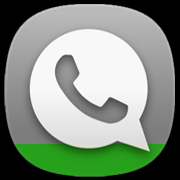
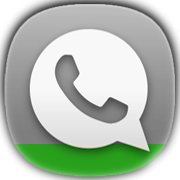
Splash page improvements

Changed region(s): [[0.0, 0.0, 1.0, 1.0]]

diff --git a/src/client/UI/Misc/WASplash.qml b/src/client/UI/Misc/WASplash.qml
@@ -20,9 +20,10 @@ WAPage {
     }
     
     function nextStage() {
-	curProgress=0
-	position=0
+	curProgress=1
 	stage++
+	position=1
+	console.log("nextStage: " + stage)
     }
 
     function setSubOperation(subop) {
@@ -34,15 +35,22 @@ WAPage {
     }
     
     function step() {
-	if (position+1 < maximumValue) {
+	if (position+1 <= maximumValue) {
 	    position++
 	    setProgress(position)
+	    setOpacity(position)
 	}
     }
 
     function setProgress(val) {
 	    var part = 100/maximumValue
 	    curProgress = parseInt(part*val /10)
+	    console.log("setProgress: " + curProgress)
+    }
+
+    function setOpacity(val) {
+	    var part = myBackgroundOpacity/maximumValue/10.0
+	    background.opacity = part*val
     }
 
     onStatusChanged: {
@@ -58,7 +66,15 @@ WAPage {
     Rectangle {
 	id: name
 	anchors.fill: parent
-	color: "black"
+	color: theme.inverted?"black":"white"
+	
+	Image {
+	    id: background
+	    anchors.fill: parent
+	    source: myBackgroundImage!="none" ? WAConstants.CACHE_PATH+"/"+"background.jpg" + "?ran=" + Math.random() : ""
+	    fillMode: Image.PreserveAspectCrop
+	    opacity: 0
+	}
 	
 	Image {
 	    id: progress
@@ -68,11 +84,18 @@ WAPage {
 	    anchors.top: parent.top
 	    anchors.topMargin: 246
 	    anchors.leftMargin: 150
-	    source: "images/" + stage + curProgress + "0.png"
+	    source: getSource()
+	    
+	    function getSource() {
+		var img = "images/" + stage + curProgress + "0.png"
+		console.log(img)
+		return img
+	    }
 	}
     }
 
     Column{
+	id: textColumn
         width:parent.width
 	spacing: 20
         y:450
@@ -95,6 +118,7 @@ WAPage {
     }
 
     Label{
+	id: verlabel
         text:version
         width:parent.width
         horizontalAlignment: Text.AlignHCenter

diff --git a/src/client/UI/Contacts/js/contacts.js b/src/client/UI/Contacts/js/contacts.js
@@ -72,18 +72,15 @@ function populateContacts(contacts)
 
     for(var i =0; i<contacts.length; i++)
     {
-		//console.log("APPENDING CONTACT: " + contacts[i].jid + " - " + contacts[i].name)
-		//contacts[i].newContact = false;
-        contactsModel.append(contacts[i]);
 
         if(!initializationDone){
             splashPage.setSubOperation(contacts[i].jid)
-            splashPage.step()
+            splashPage.setProgress(i+1)
             breathe()
          }
-        else if(i%4 == 0) {
-            breathe();
-        }
+		//console.log("APPENDING CONTACT: " + contacts[i].jid + " - " + contacts[i].name)
+		//contacts[i].newContact = false;
+        contactsModel.append(contacts[i]);
 
         var cachedConv =   conversations[contacts[i].jid];
         if(cachedConv){

diff --git a/src/client/UI/main.qml b/src/client/UI/main.qml
@@ -741,12 +741,6 @@ WAStackWindow {
         //This should be called if and only if conversation start point is backend
         consoleDebug("Got a conv in conversationReady slot: " + conv.jid);
 
-
-        if(!initializationDone) {
-            splashPage.setSubOperation(conv.jid)
-	    splashPage.step()
-	}
-
         breathe()
         var conversation = waChats.getOrCreateConversation(conv.jid);
 
@@ -774,6 +768,10 @@ WAStackWindow {
 
         }
 
+        if(!initializationDone) {
+            splashPage.setSubOperation(conv.jid)
+	    splashPage.step()
+	}
     }
 
     signal reorderConversation(string cjid) //@@THIS IS FUCKING RETARDED!!!!!!!!
